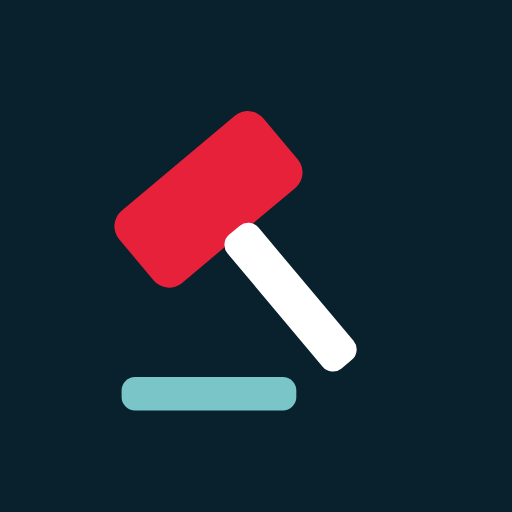
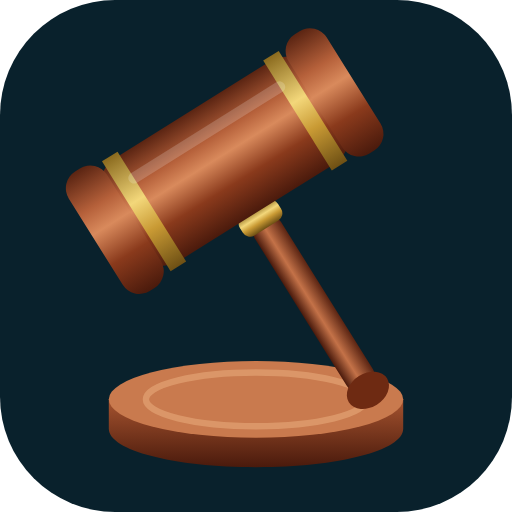
Add files via upload

diff --git a/app/page.js b/app/page.js
@@ -5,8 +5,7 @@ import { CATEGORIES, LOT_CARD_FIELDS, gbp } from "@/lib/format";
 import LotCard from "@/components/LotCard";
 import SortSelect from "@/components/SortSelect";
 import CategorySelect from "@/components/CategorySelect";
-import { BellIcon, ClockIcon, HeartIcon, HomeIcon, PlaneIcon, TagIcon } from "@/components/Icons";
-import EndingSoon from "@/components/EndingSoon";
+import { BellIcon, HeartIcon, PlaneIcon } from "@/components/Icons";
 import ActivityTicker from "@/components/ActivityTicker";
 import { BID_FIELDS, NEW_LOT_FIELDS, bidEvent, listingEvent, mergeEvents } from "@/lib/activity";
 import { GROUP_NAME, GROUP_URL, GROUP_MEMBERS } from "@/lib/site";
@@ -59,11 +58,7 @@ export default async function Home({ searchParams }) {
   const filtered = Boolean(cat || q || charity);
   const showHero = !filtered && page === 1;
 
-  // Homepage extras: the next lots to close, and recent activity for the live ticker.
-  const ending = showHero
-    ? supabase.from("lots").select(LOT_CARD_FIELDS).eq("status", "live").gt("ends_at", nowIso)
-        .order("ends_at", { ascending: true }).limit(8)
-    : Promise.resolve({ data: [] });
+  // Homepage extras: recent activity for the live ticker.
   const recentBids = showHero
     ? supabase.from("bids").select(BID_FIELDS).order("created_at", { ascending: false }).limit(10)
     : Promise.resolve({ data: [] });
@@ -74,8 +69,8 @@ export default async function Home({ searchParams }) {
   const causes = showHero ? supabase.rpc("charity_totals") : Promise.resolve({ data: [] });
 
   const businessesQ = supabase.from("local_businesses").select("id, name, tagline, url, phone, logo_path, position, link_label").order("position").limit(12);
-  const [{ data: lots, count, error }, { data: endingLots }, { data: bidRows }, { data: newLots }, { data: causeRows }, { data: bizRows }] =
-    await Promise.all([live, ending, recentBids, recentLots, causes, businessesQ]);
+  const [{ data: lots, count, error }, { data: bidRows }, { data: newLots }, { data: causeRows }, { data: bizRows }] =
+    await Promise.all([live, recentBids, recentLots, causes, businessesQ]);
   // Local businesses shown between the lots on phones (every 6 lots), shuffled for fairness.
   const feedBiz = [...(bizRows ?? [])].sort(() => Math.random() - 0.5);
   const EVERY = 6;
@@ -90,8 +85,6 @@ export default async function Home({ searchParams }) {
   const charityRunning = (causeRows ?? []).reduce((t, c) => t + Number(c.running || 0), 0);
   const total = count ?? 0;
   const events = mergeEvents((bidRows ?? []).map(bidEvent), (newLots ?? []).map(listingEvent));
-  // Only show the strip when there are enough lots for it to be worth it.
-  const endingSoon = (endingLots ?? []).length >= 3 ? endingLots.slice(0, 6) : [];
 
   return (
     <>
@@ -108,25 +101,17 @@ export default async function Home({ searchParams }) {
               </div>
               <p className="hero-by">Run by Nick, who runs Market Bosworth Classifieds (7,000 members) · <Link href="/about">About us</Link></p>
             </div>
+            <ul className="hero-perks" aria-label="Why Going Going Gone">
+              <li><strong>Free to list, free to bid</strong><span>No fees for buyers or sellers</span></li>
+              <li><strong>Listed in two minutes</strong><span>Add photos, set a price, done</span></li>
+              <li><strong>Collect locally</strong><span>Neighbours, so no postage</span></li>
+            </ul>
           </div>
-        </section>
-      ) : null}
-
-      {showHero ? (
-        <section className="perks-strip" aria-label="Why Going Going Gone">
-          <ul className="wrap perks">
-            <li className="perk-aqua"><TagIcon /><div><strong>Free to list, free to bid</strong><span>No fees for buyers or sellers.</span></div></li>
-            <li className="perk-white"><ClockIcon /><div><strong>Listed in two minutes</strong><span>Add photos, set a price, done.</span></div></li>
-            <li className="perk-red"><HomeIcon /><div><strong>Collect locally</strong><span>Neighbours, so no postage.</span></div></li>
-          </ul>
         </section>
       ) : null}
 
       {showHero ? <ActivityTicker initial={events} /> : null}
 
-      {showHero && endingSoon.length ? (
-        <div className="wrap"><EndingSoon lots={endingSoon} /></div>
-      ) : null}
 
       {showHero ? (
         <div className="wrap">

diff --git a/components/Logo.js b/components/Logo.js
@@ -1,15 +1,36 @@
-// The Going Going Gone mark: a Monaco-red gavel on a Riva-navy tile.
+// The Going Going Gone mark: a mahogany auctioneer's gavel with brass bands, on a Riva-navy tile.
 export function BrandMark({ className = "brand-mark" }) {
   return (
     <svg className={className} viewBox="0 0 40 40" aria-hidden="true">
-      <rect width="40" height="40" rx="9" fill="#09212c" />
-      <g transform="rotate(-38 20 18)">
-        <rect x="11" y="9" width="18" height="8.5" rx="2" fill="#e8213a" />
-        <rect x="9.5" y="10.5" width="2.2" height="5.5" rx="1" fill="#a80e1f" />
-        <rect x="28.3" y="10.5" width="2.2" height="5.5" rx="1" fill="#a80e1f" />
-        <rect x="18.6" y="17" width="2.8" height="15" rx="1.4" fill="#ffffff" />
+      <defs>
+      <linearGradient id="ggWoodH" x1="0" y1="0" x2="0" y2="1">
+      <stop offset="0" stopColor="#5a2412"/><stop offset="0.28" stopColor="#b5603a"/><stop offset="0.45" stopColor="#d98a5c"/><stop offset="0.7" stopColor="#8a3a1c"/><stop offset="1" stopColor="#4a1a0c"/>
+      </linearGradient>
+      <linearGradient id="ggWoodV" x1="0" y1="0" x2="1" y2="0">
+      <stop offset="0" stopColor="#4a1a0c"/><stop offset="0.45" stopColor="#c47248"/><stop offset="1" stopColor="#5a2412"/>
+      </linearGradient>
+      <linearGradient id="ggBrass" x1="0" y1="0" x2="0" y2="1">
+      <stop offset="0" stopColor="#8a6a1e"/><stop offset="0.4" stopColor="#f3d77a"/><stop offset="0.65" stopColor="#c99a34"/><stop offset="1" stopColor="#6e5014"/>
+      </linearGradient>
+      <linearGradient id="ggBlock" x1="0" y1="0" x2="0" y2="1">
+      <stop offset="0" stopColor="#a5532f"/><stop offset="1" stopColor="#4a1a0c"/>
+      </linearGradient>
+      </defs>
+      <rect width="40" height="40" rx="9" fill="#09212c"/>
+      <path d="M8.5 31.2v2.3c0 1.7 5.1 3 11.5 3s11.5-1.3 11.5-3v-2.3z" fill="url(#ggBlock)"/>
+      <ellipse cx="20" cy="31.2" rx="11.5" ry="3" fill="#c97a4e"/>
+      <ellipse cx="20" cy="31.2" rx="8.6" ry="2.1" fill="none" stroke="#e2a274" strokeWidth="0.5" opacity="0.7"/>
+      <g transform="translate(20 16.5) scale(1.1) rotate(-32) translate(-20 -17)">
+      <rect x="18.9" y="17.5" width="2.2" height="14.5" rx="1.1" fill="url(#ggWoodV)"/>
+      <ellipse cx="20" cy="32" rx="1.6" ry="1.2" fill="#6e2a12"/>
+      <rect x="18.4" y="16.8" width="3.2" height="1.6" rx="0.6" fill="url(#ggBrass)"/>
+      <rect x="11" y="8.5" width="18" height="8.6" rx="2.6" fill="url(#ggWoodH)"/>
+      <rect x="9.2" y="7.8" width="3.2" height="10" rx="1.4" fill="url(#ggWoodH)"/>
+      <rect x="27.6" y="7.8" width="3.2" height="10" rx="1.4" fill="url(#ggWoodH)"/>
+      <rect x="12.6" y="8.2" width="1.3" height="9.2" fill="url(#ggBrass)"/>
+      <rect x="26.1" y="8.2" width="1.3" height="9.2" fill="url(#ggBrass)"/>
+      <rect x="13.5" y="10" width="13" height="0.8" rx="0.4" fill="#fff" opacity="0.18"/>
       </g>
-      <rect x="8" y="31" width="14" height="3" rx="1.5" fill="#79c5c8" />
     </svg>
   );
 }

diff --git a/app/globals.css b/app/globals.css
@@ -791,3 +791,35 @@ body:has(.biz-infeed-complete) .biz-strip { display: none; }
   .filters-right .sort { flex-direction: column; align-items: stretch; gap: 4px; }
   .lots-band .sort select { min-width: 0; width: 100%; }
 }
+
+/* Hero: catalogue-serif title, and the three promises set straight onto the sky. */
+.hero h1 { font-family: var(--serif); font-weight: 500; text-transform: none; font-size: clamp(50px, 7.4vw, 100px); line-height: 0.92; letter-spacing: -0.015em; column-gap: 0.22em; font-variation-settings: "opsz" 96; }
+.hero h1 span:nth-child(3) { font-style: italic; }
+.hero-sub { margin-top: 20px; }
+.hero .wrap { display: grid; grid-template-columns: minmax(0, 640px) minmax(0, 1fr); column-gap: 40px; align-items: end; }
+.hero-perks { list-style: none; margin: 0; padding: 0; justify-self: end; align-self: end; width: min(100%, 300px); display: flex; flex-direction: column; }
+.hero-perks li { padding: 13px 0 13px 18px; border-left: 1px solid rgba(255, 255, 255, 0.55); display: flex; flex-direction: column; gap: 3px; text-shadow: 0 1px 12px rgba(9, 33, 44, 0.75), 0 0 2px rgba(9, 33, 44, 0.4); }
+.hero-perks strong { font-family: var(--serif); font-weight: 500; font-size: 21px; line-height: 1.15; color: #fff; }
+.hero-perks span { font-size: 14px; font-weight: 500; color: #eaf4f5; }
+@media (max-width: 1020px) {
+  .hero .wrap { grid-template-columns: 1fr; }
+  .hero-perks { justify-self: start; width: 100%; margin-top: 28px; flex-direction: row; flex-wrap: wrap; gap: 14px 0; }
+  .hero-perks li { flex: 1 1 180px; padding-block: 2px; }
+}
+@media (max-width: 520px) {
+  .hero-perks { flex-direction: column; gap: 12px; margin-top: 24px; }
+  .hero-perks li { flex: none; padding-left: 14px; }
+  .hero-perks strong { font-size: 18px; }
+  .hero-perks span { font-size: 13.5px; }
+}
+/* Keep the title on one line on wide screens, and give the promises a soft shade so they read against the bright sky. */
+@media (min-width: 1100px) { .hero h1 { flex-wrap: nowrap; white-space: nowrap; font-size: clamp(64px, 6.4vw, 92px); width: max-content; } }
+.hero-perks { position: relative; isolation: isolate; }
+.hero-perks::before { content: ""; position: absolute; inset: -40px -60px -40px -50px; z-index: -1; pointer-events: none; background: radial-gradient(closest-side, rgba(9, 33, 44, 0.62), rgba(9, 33, 44, 0.35) 55%, rgba(9, 33, 44, 0) 100%); filter: blur(6px); }
+@media (max-width: 1020px) { .hero-perks::before { display: none; } }
+
+/* The name beside the gavel, in the same serif as the banner title. */
+.brand-word { font-family: var(--serif); font-weight: 500; text-transform: none; font-size: 27px; letter-spacing: -0.01em; gap: 0.24em; line-height: 1; padding-bottom: 2px; font-variation-settings: "opsz" 48; }
+.brand-word span:nth-child(3) { font-style: italic; }
+.brand-mark { width: 40px; height: 40px; }
+@media (max-width: 420px) { .brand-word { font-size: 22px; } .brand-mark { width: 34px; height: 34px; } }
